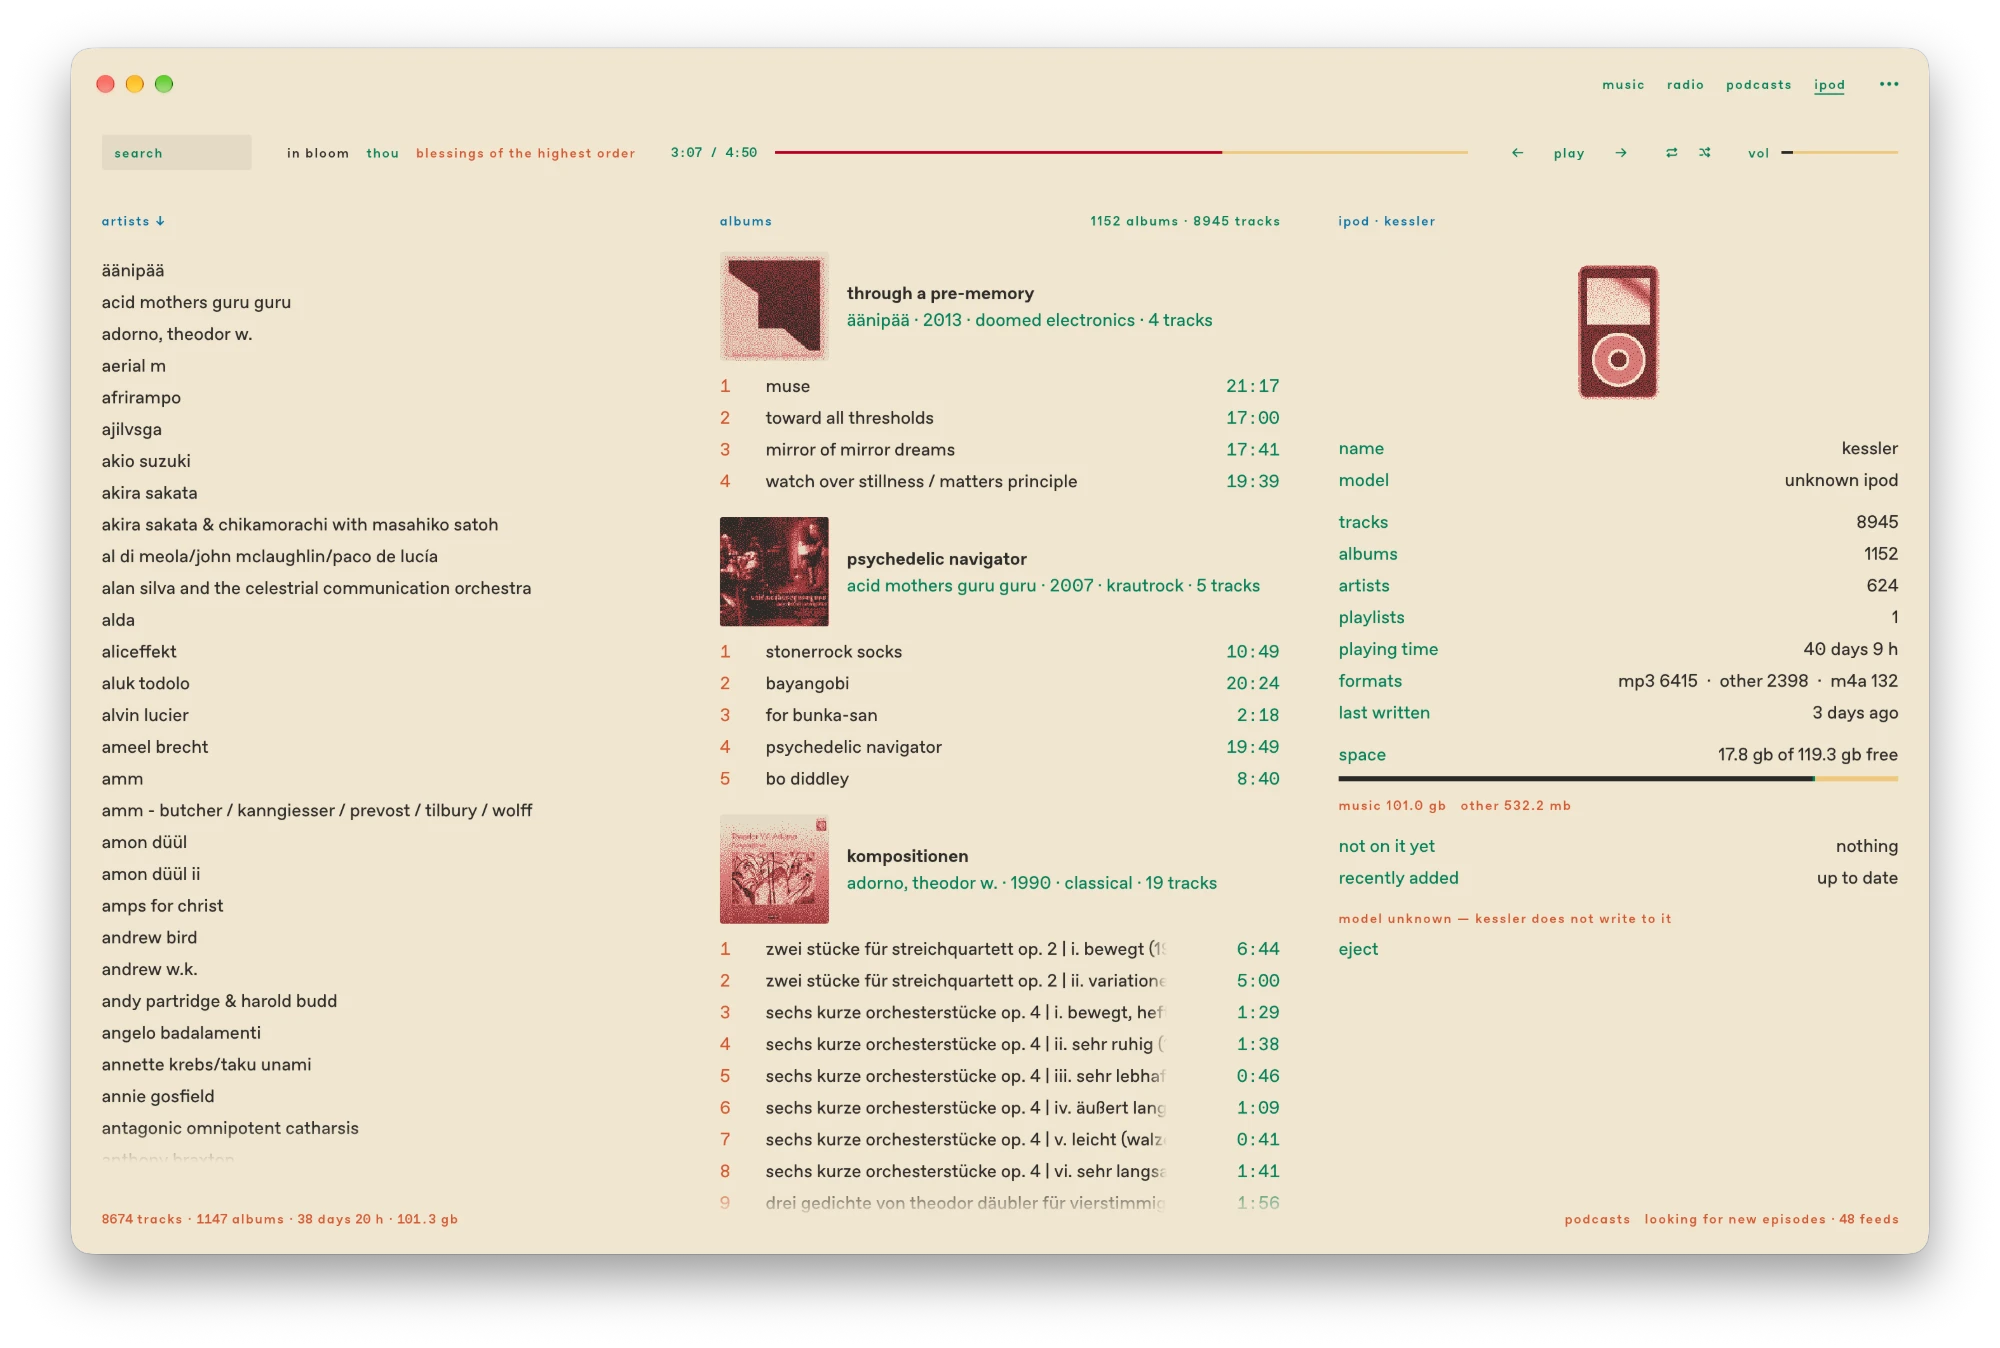
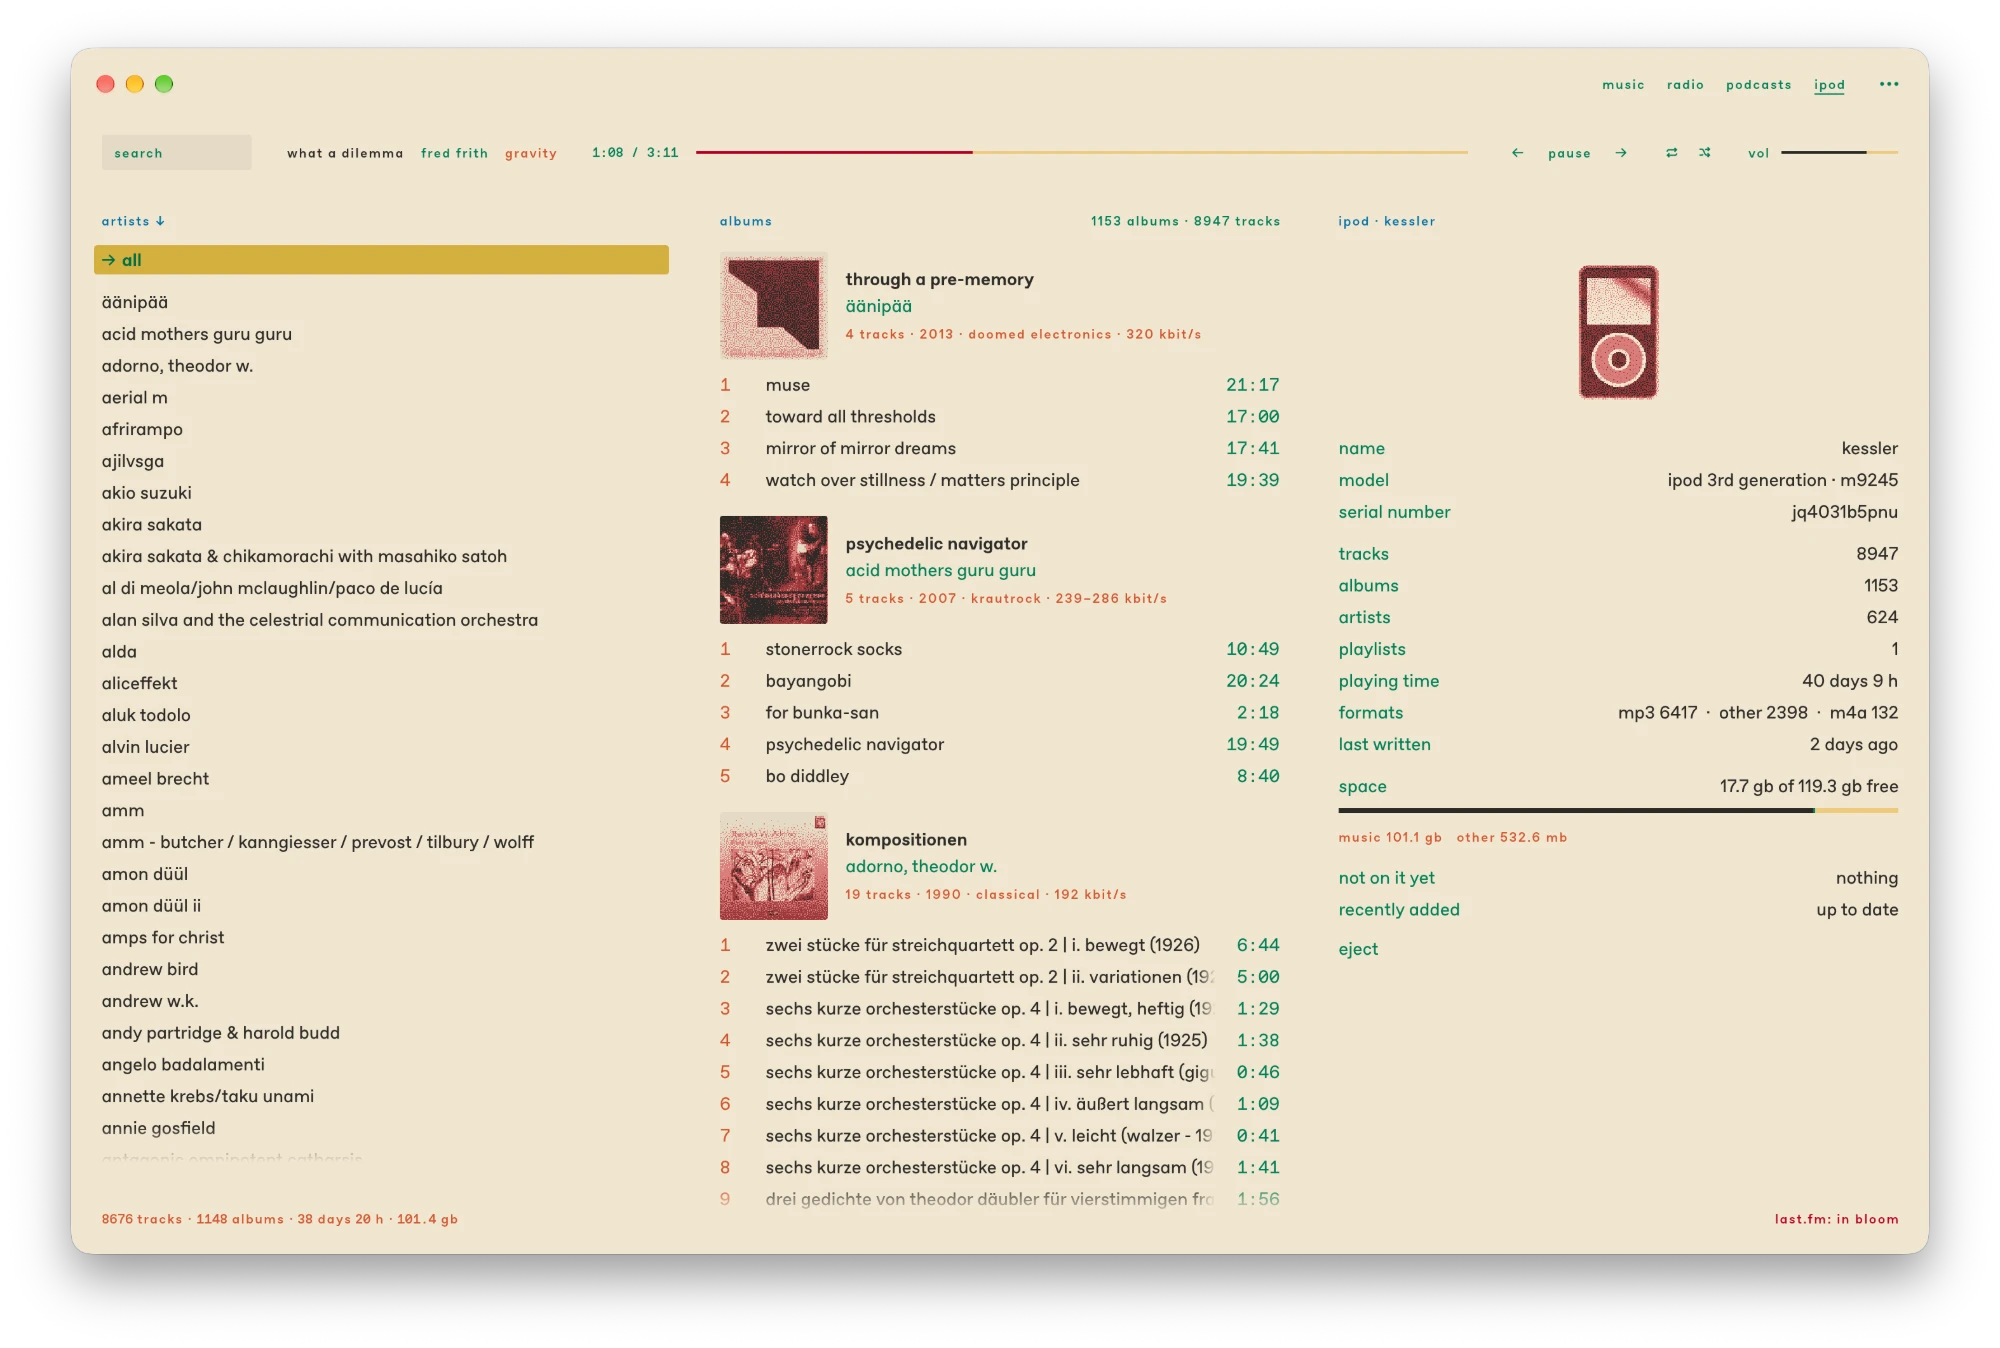
readme: new screenshot of the ipod, with a caption

diff --git a/README.md b/README.md
@@ -97,6 +97,8 @@ egui and sqlite.
 
 ![an ipod plugged in: what is on it, and what the device says about itself](docs/screenshots/ipod.webp)
 
+<sub>an ipod plugged in beside the library: all of its albums with their heads, and what the device says about itself — model, serial number, what is on it, the formats, when it was last written, the space it has left, and whether anything is still to sync.</sub>
+
 ![with everything switched off: a drawing, and how to switch something on](docs/screenshots/all-off.webp)
 
 all settings are in the menu (`m`):
